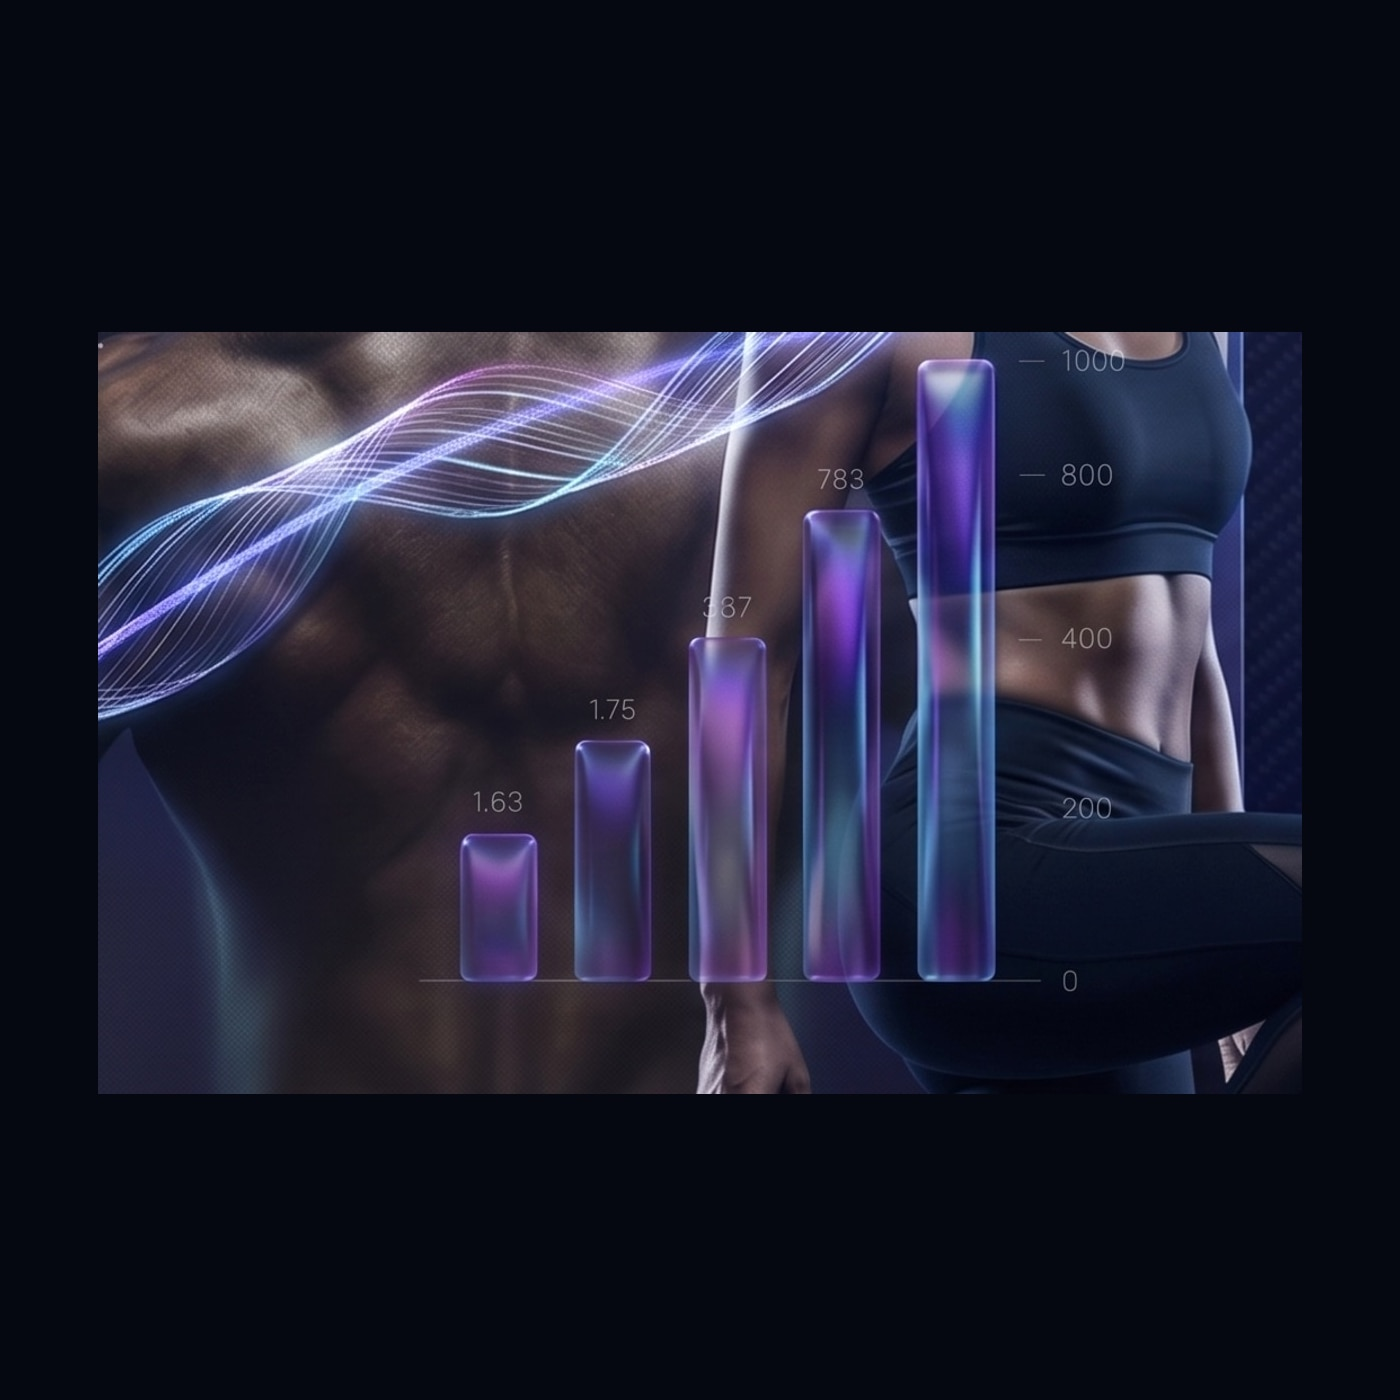
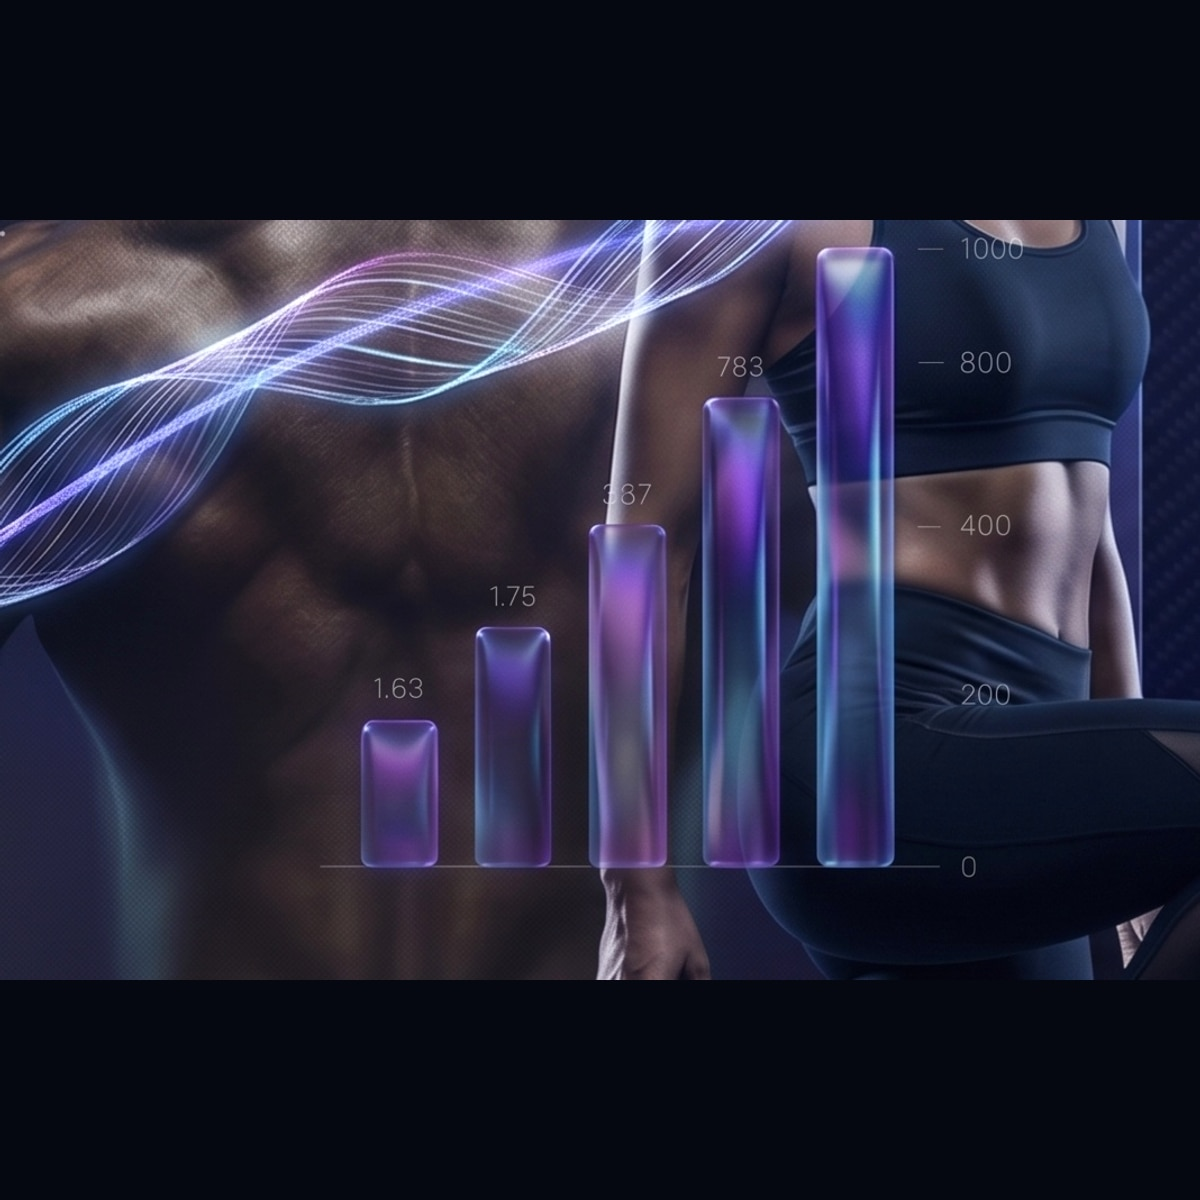
Ajuste

diff --git a/src/styles/auth.css b/src/styles/auth.css
@@ -322,6 +322,10 @@
   height: 100%;
   min-height: 0;
   overflow: hidden;
+  display: flex;
+  flex-direction: column;
+  gap: 0.85rem;
+  padding: 1.35rem 1.25rem 1.15rem;
   border-radius: 28px;
   border: 1px solid rgba(255, 255, 255, 0.08);
   background:
@@ -334,18 +338,32 @@
   -webkit-backdrop-filter: blur(10px);
 }
 
+/* Quadrado dedicado dos personagens (cena completa, sem crop) */
+.auth-split__cast {
+  position: relative;
+  flex: 1 1 0;
+  min-height: 240px;
+  width: 100%;
+  max-width: 580px;
+  margin: 0.15rem auto;
+  border-radius: 20px;
+  overflow: hidden;
+  background: #050810;
+  border: 1px solid rgba(255, 255, 255, 0.06);
+  box-shadow: inset 0 0 40px rgba(0, 0, 0, 0.35);
+}
+
 .auth-split__cover {
   position: absolute;
   inset: 0;
   width: 100%;
   height: 100%;
   display: block;
-  /* Quadrado com personagens recolhidos: corpo completo no stage */
-  object-fit: cover;
-  object-position: center 52%;
+  object-fit: contain;
+  object-position: center center;
   max-height: none;
   transform: none;
-  filter: brightness(1.05) contrast(1.03) saturate(1.04);
+  filter: brightness(1.06) contrast(1.03) saturate(1.05);
   pointer-events: none;
   user-select: none;
 }
@@ -356,21 +374,21 @@
   z-index: 1;
   pointer-events: none;
   background:
-    linear-gradient(180deg, rgba(5, 8, 16, 0.86) 0%, rgba(5, 8, 16, 0.38) 15%, transparent 32%),
-    linear-gradient(0deg, rgba(5, 8, 16, 0.9) 0%, rgba(5, 8, 16, 0.42) 16%, transparent 34%),
-    linear-gradient(90deg, rgba(5, 8, 16, 0.4) 0%, rgba(5, 8, 16, 0.12) 26%, transparent 50%);
+    linear-gradient(180deg, rgba(5, 8, 16, 0.28) 0%, transparent 18%),
+    linear-gradient(0deg, rgba(5, 8, 16, 0.35) 0%, transparent 22%);
 }
 
 .auth-split__top {
   display: none;
-  position: absolute;
+  position: relative;
   z-index: 3;
-  top: 5.25%;
-  left: 5.25%;
-  width: min(480px, 58%);
+  top: auto;
+  left: auto;
+  width: min(480px, 92%);
   flex-direction: column;
   align-items: flex-start;
-  gap: 1.35rem;
+  flex: 0 0 auto;
+  gap: 1rem;
   padding: 0;
   background: none;
   border-radius: 0;
@@ -417,16 +435,18 @@
 
 .auth-split__journey {
   display: none;
-  position: absolute;
+  position: relative;
   z-index: 3;
-  left: 5.25%;
+  left: auto;
   right: auto;
-  bottom: 13%;
-  width: min(520px, 76%);
+  bottom: auto;
+  width: 100%;
+  max-width: 560px;
   list-style: none;
-  margin: 0;
-  padding: 0.35rem 0;
+  margin: 0 auto;
+  padding: 0.25rem 0 0;
   align-items: flex-start;
+  flex: 0 0 auto;
   gap: 0.5rem;
   border-radius: 0;
   border: none;
@@ -492,13 +512,15 @@
 
 .auth-split__privacy {
   display: none;
-  position: absolute;
+  position: relative;
   z-index: 3;
-  left: 5.25%;
-  bottom: 4.25%;
-  max-width: min(320px, 62%);
+  left: auto;
+  bottom: auto;
+  max-width: min(320px, 92%);
   align-items: center;
+  flex: 0 0 auto;
   gap: 0.65rem;
+  margin-top: auto;
   padding: 0.65rem 0.85rem;
   border-radius: 14px;
   border: 1px solid rgba(255, 255, 255, 0.08);
@@ -930,8 +952,9 @@
     padding: 1.35rem 1rem 1.35rem 1.35rem;
   }
 
-  .auth-split__cover {
-    object-position: center 50%;
+  .auth-split__cast {
+    max-width: 520px;
+    min-height: 280px;
   }
 
   .auth-split__panel {
@@ -954,17 +977,19 @@
 
   .auth-split__stage {
     border-radius: 32px;
+    gap: 1rem;
+    padding: 1.5rem 1.4rem 1.25rem;
   }
 
-  .auth-split__cover {
-    object-position: center 52%;
+  .auth-split__cast {
+    max-width: 560px;
+    min-height: 300px;
+    border-radius: 22px;
   }
 
   .auth-split__top {
-    top: 5.5%;
-    left: 5.5%;
-    width: min(500px, 52%);
-    gap: 1.45rem;
+    width: min(500px, 92%);
+    gap: 1.2rem;
   }
 
   .auth-split__hero {
@@ -972,12 +997,7 @@
   }
 
   .auth-split__journey {
-    bottom: 11.5%;
-    width: min(540px, 72%);
-  }
-
-  .auth-split__privacy {
-    bottom: 3.35%;
+    max-width: 560px;
   }
 
   .auth-split__panel {
@@ -990,12 +1010,13 @@
 }
 
 @media (min-width: 1440px) {
-  .auth-split__cover {
-    object-position: center 54%;
+  .auth-split__cast {
+    max-width: 600px;
+    min-height: 320px;
   }
 
   .auth-split__top {
-    width: min(520px, 48%);
+    width: min(520px, 90%);
   }
 
   .auth-login-card {
@@ -1008,9 +1029,13 @@
     padding: 0.85rem 0.65rem 0.85rem 0.85rem;
   }
 
+  .auth-split__stage {
+    gap: 0.55rem;
+    padding: 1rem 0.95rem 0.85rem;
+  }
+
   .auth-split__top {
-    top: 4%;
-    gap: 0.85rem;
+    gap: 0.7rem;
   }
 
   .auth-split__hero h2 {
@@ -1021,13 +1046,12 @@
     font-size: 0.84rem;
   }
 
-  .auth-split__cover {
-    object-position: center 48%;
+  .auth-split__cast {
+    min-height: 180px;
   }
 
   .auth-split__journey {
-    bottom: 10%;
-    padding: 0.25rem 0;
+    padding: 0.15rem 0;
   }
 
   .auth-split__journey span {
@@ -1035,7 +1059,6 @@
   }
 
   .auth-split__privacy {
-    bottom: 2.4%;
     padding: 0.55rem 0.75rem;
   }
 

diff --git a/src/components/auth/AuthLayout.jsx b/src/components/auth/AuthLayout.jsx
@@ -71,16 +71,6 @@ export default function AuthLayout({
         <div className="auth-split__main">
           <aside className="auth-split__visual" aria-label="EvoluaFit">
             <div className="auth-split__stage">
-              <img
-                className="auth-split__cover"
-                src="/branding/login-cover-balanced.jpg"
-                alt=""
-                decoding="async"
-                fetchPriority="high"
-              />
-
-              <div className="auth-split__scrim" aria-hidden="true" />
-
               <div className="auth-split__top">
                 <div className="auth-split__brand">
                   <EvoluaFitLogo size="medium" showWordmark className="auth-split__logo" />
@@ -94,6 +84,17 @@ export default function AuthLayout({
                     próximo passo.
                   </p>
                 </div>
+              </div>
+
+              <div className="auth-split__cast" aria-hidden="true">
+                <img
+                  className="auth-split__cover"
+                  src="/branding/login-cover-balanced.jpg"
+                  alt=""
+                  decoding="async"
+                  fetchPriority="high"
+                />
+                <div className="auth-split__scrim" />
               </div>
 
               <ul className="auth-split__journey" aria-label="Jornada EvoluaFit">
